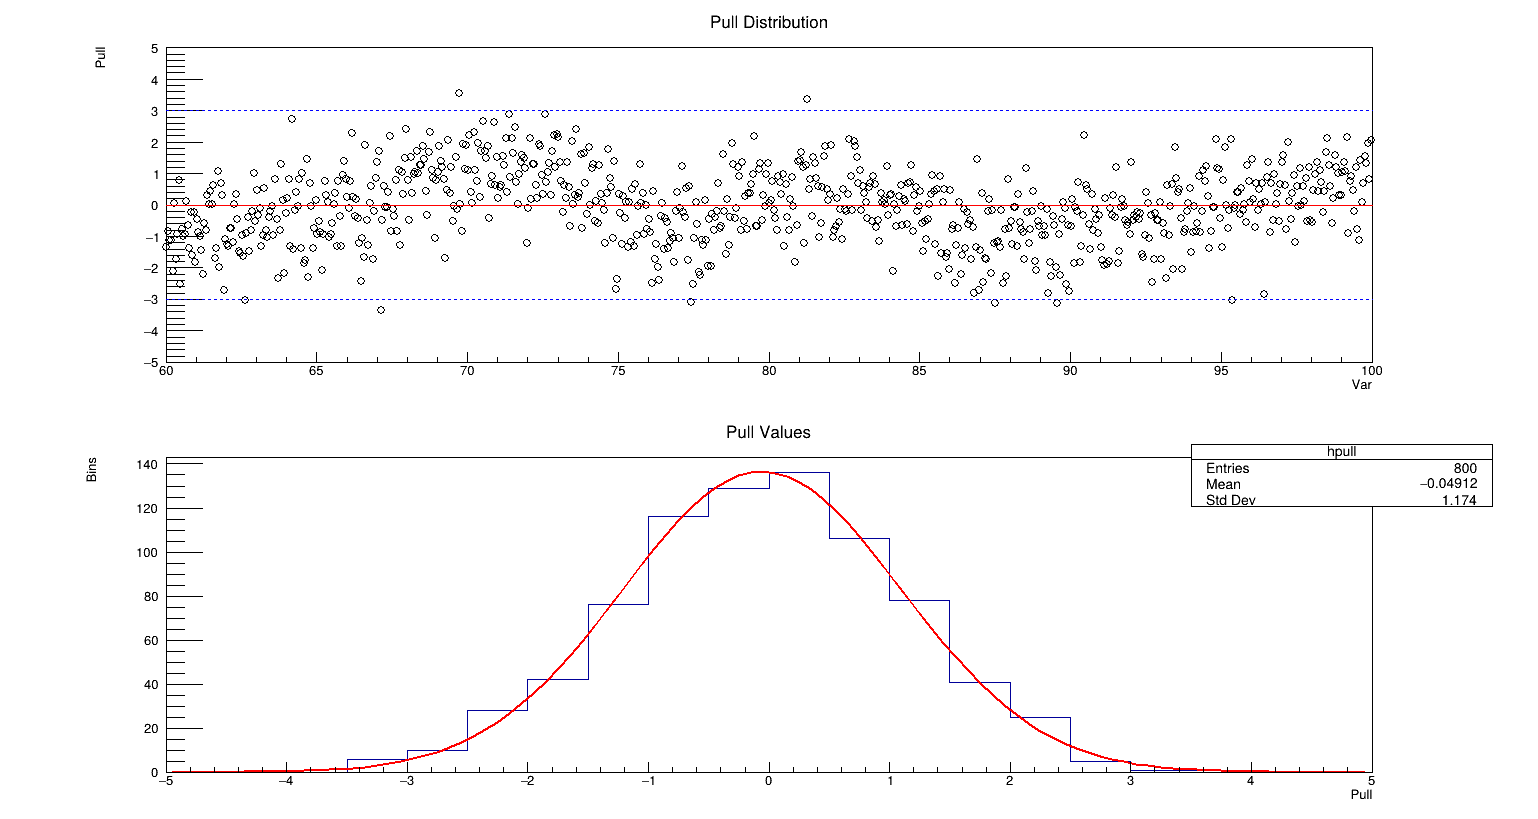
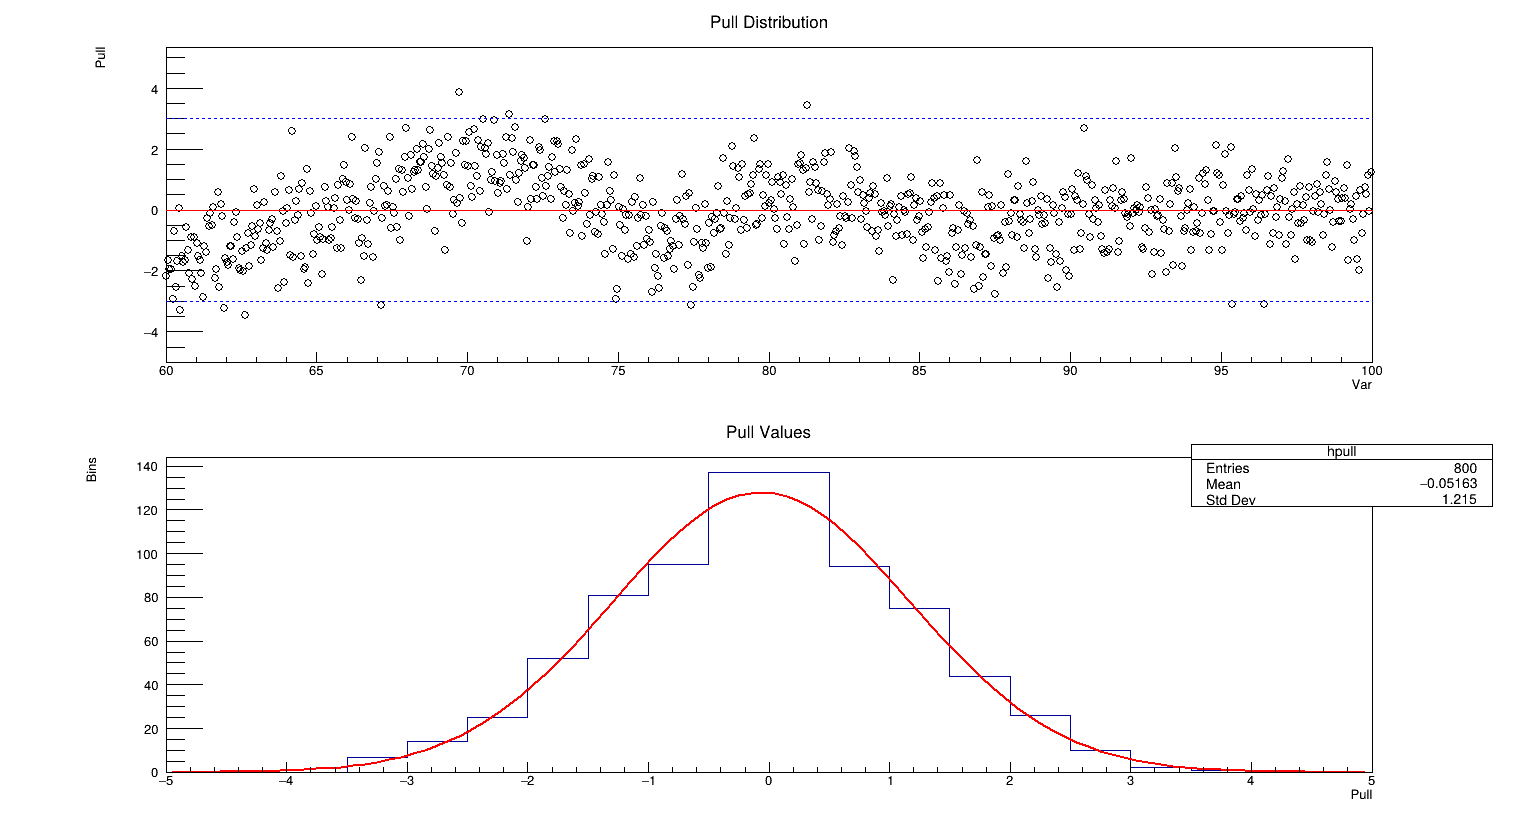
Made changes  Macro to 3rd var in GenData3 datafile

diff --git a/C_files/Gendata3_3.C b/C_files/Gendata3_3.C
@@ -61,7 +61,7 @@ void Gendata3_3(){
     // SIGNAL AND BACKGROUND PDFS
 
     RooGaussian signal("signal", "Signal PDF", var, mean, sigma);
-    RooBernstein background("background", "Background PDF", var, RooArgList(a1, a2, a3));
+    RooBernstein background("background", "Background PDF", var, RooArgList(a1, a2));
 
     // YEILD VARIABLES
 
@@ -205,6 +205,7 @@ void Gendata3_3(){
     out << "Chi2/NDF: " << chi2ndf << endl;
 
     fitres->Print("v");
+    fitres->correlationMatrix().Print();
 
     out << "\nSignal Yield: "<< nsig.getVal()<< " ± "<< nsig.getError()<< endl;
     out << "Mean: "<< mean.getVal()<< " ± "<< mean.getError()<< endl;
